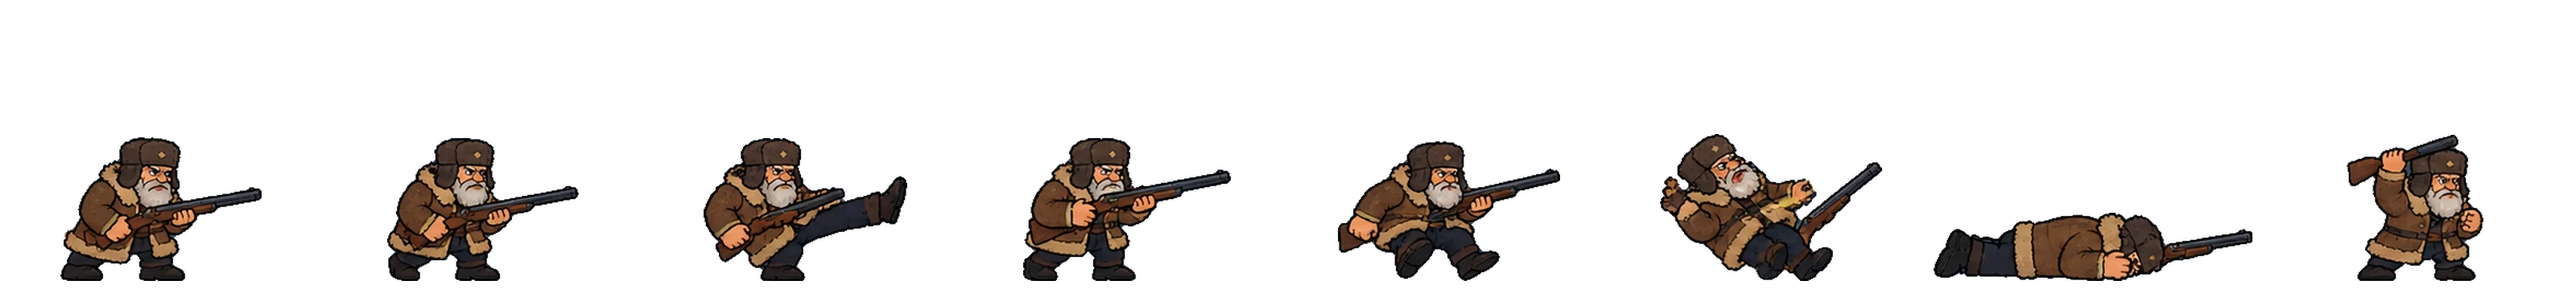
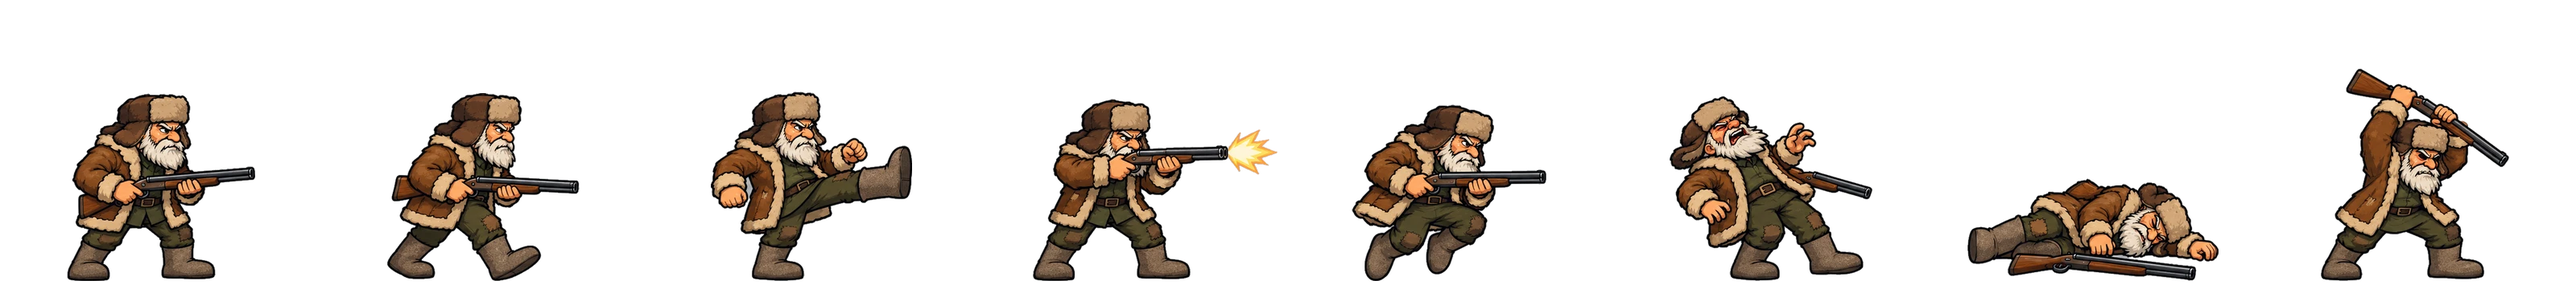
ulica: новые дружинник, сторож, дед с солью и Грузчик Вася в стиле героев
Claude-Session: https://claude.ai/code/session_017w6utUE8t4YTdujvejqZkJ

Changed region(s): [[0.0, 0.3056, 0.5, 0.9778], [0.5, 0.2444, 1.0, 0.9778]]

diff --git a/ulica/index.html b/ulica/index.html
@@ -70,7 +70,7 @@ const HEROES=[
  {id:'kaban',name:'Кабан',desc:'Бугай в спортивке. Кулак сбивает с ног',hp:140,spd:180,pow:1.3,rate:.85,heavyFist:1,price:600,pq:'h_kaban',hand:{i:[41,-93],p:[101,-110],o:[-15,-147]},top:115,sc:1.18,jacket:'#1f2a5a',pants:'#1f2a5a',stripe:'#f2f2f2',hair:'#4a3a2a',skin:'#e0a880'},
  {id:'marinka',name:'Маринка',desc:'Со двора. Вёрткая — уворачивается от ударов',hp:85,spd:260,pow:.95,rate:1.3,dodge:.22,price:450,pq:'h_marinka',hand:{i:[28,-93],p:[65,-105],o:[6,-154]},top:115,sc:1.05,noEnemy:1,jacket:'#6a2a9a',pants:'#6a2a9a',stripe:'#f2f2f2',hair:'#7a4a2a',skin:'#f0c4a0'}];
 const TINT=document.createElement('canvas');TINT.width=400;TINT.height=360;const PZMAP=[1,0,2,3],PZTOP0=[60,70,70,58],PZI=[],PZTOP=[];for(let h=0;h<HEROES.length;h++){const i=new Image();i.src=HEROES[h].pq?'img/'+HEROES[h].pq+'.webp':'img/pq'+PZMAP[h]+'.webp';PZI[h]=i;PZTOP[h]=HEROES[h].top!=null?HEROES[h].top:PZTOP0[PZMAP[h]];i.onload=()=>{if(PZI.every(x=>x.complete&&x.naturalWidth)&&typeof state!=='undefined'&&state==='menu')showMenu()}}
-const NSPR={},NTOP={druzh:130,ded:171,storozh:154,host:115,brig:116,dog:35,g1:20,g2:20,g3:20,baryga:115,naper:115,farc:115,reshala:115,smotr:115,myasnik:115},NSK={guard:'storozh',ded:'ded',druzh:'druzh'};for(const k in NTOP){const i=new Image();i.src='img/n_'+k+'.webp';NSPR[k]=i}
+const NSPR={},NTOP={druzh:116,ded:116,storozh:115,vasya:115,host:115,brig:116,dog:35,g1:20,g2:20,g3:20,baryga:115,naper:115,farc:115,reshala:115,smotr:115,myasnik:115},NSK={guard:'storozh',ded:'ded',druzh:'druzh'};for(const k in NTOP){const i=new Image();i.src='img/n_'+k+'.webp';NSPR[k]=i}
 const UAZI=new Image();UAZI.src='img/uaz.webp';
 const nsOK=k=>k&&NSPR[k]&&NSPR[k].complete&&NSPR[k].naturalWidth;
 const ENEMY_COL=['#4a6a2a','#5a2a6a','#6a4a1a','#2a5a6a'];
@@ -1201,7 +1201,7 @@ const RST=[
  {loc:'Овощные ряды',b:'НАПЁРСТОЧНИК',spr:'naper',w:'bottle',hp:150,sc:1.1,tip:'Шустрый и вёрткий. Бей ногой — отбрасывает.'},
  {loc:'Вещевой ряд',b:'ФАРЦОВЩИК',spr:'farc',w:'chain',hp:175,sc:1.15,tip:'Джинсы, кассеты и цепь. Длинные руки — держи дистанцию.'},
  {loc:'Мясной павильон',b:'МЯСНИК',spr:'myasnik',w:'knife',hp:235,sc:1.32,tip:'Огромный, с тесаком. Медленный — бей и отходи.'},
- {loc:'Задворки и склад',b:'ГРУЗЧИК ВАСЯ',spr:'brig',kind:'brig',w:'rebar',hp:280,sc:1.36,tip:'Увидишь «!!!» — отбегай. Издалека кидается кирпичами.'},
+ {loc:'Задворки и склад',b:'ГРУЗЧИК ВАСЯ',spr:'vasya',kind:'brig',w:'rebar',hp:280,sc:1.36,tip:'Увидишь «!!!» — отбегай. Издалека кидается кирпичами.'},
  {loc:'Контора рынка',b:'РЕШАЛА',spr:'reshala',w:'knux',hp:260,sc:1.25,guards:2,tip:'Решала с охраной. Сначала вырубай охрану.'},
  {loc:'Кабинет смотрящего',b:'СМОТРЯЩИЙ',spr:'smotr',kind:'host',w:'bpistol',hp:380,sc:1.36,tip:'Стреляет издалека, на половине здоровья зовёт охрану. Бей вплотную.'}];
 const RNAMES=['Торгаш','Грузчик','Шнырь','Кидала','Меняла','Носильщик','Сторож','Шестёрка'];
@@ -1612,7 +1612,7 @@ function loop(ts){const t=ts/1000,dt=Math.min(.05,t-(last||t));last=t;
  requestAnimationFrame(loop)}
 requestAnimationFrame(loop);
 LS.get('age',0)?showMenu():showAge();
-try{if('serviceWorker' in navigator&&location.protocol==='https:'){navigator.serviceWorker.register('/sw.js').catch(()=>{});if(window.caches)caches.open('tagshim-v2').then(c=>c.addAll(['/ulica/','/ulica/img/pq0.webp','/ulica/img/pq1.webp','/ulica/img/pq2.webp','/ulica/img/pq3.webp','/ulica/img/bg_dvor.webp','/ulica/img/bg_stroika.webp','/ulica/img/rayon_map0.webp','/ulica/img/rayon_map1.webp','/ulica/img/uaz.webp','/ulica/img/bg_disko.webp','/ulica/img/bg_ploshad.webp','/ulica/img/bg_zavod0.webp','/ulica/img/bg_zavod1.webp','/ulica/img/bg_street.webp','/ulica/img/bg_zavod2.webp','/ulica/img/bg_salon0.webp','/ulica/img/bg_salon1.webp','/ulica/img/bg_salon2.webp','/ulica/img/bg_rynok1.webp','/ulica/img/bg_rynok2.webp','/ulica/img/bg_rynok3.webp','/ulica/img/bg_rynok4.webp','/ulica/img/bg_rynok5.webp','/ulica/img/bg_rynok6.webp','/ulica/img/bg_rynok7.webp'].concat(['druzh','ded','storozh','host','brig','dog','g1','g2','g3','baryga','naper','farc','reshala','smotr','myasnik'].map(k=>'/ulica/img/n_'+k+'.webp')).concat(['/ulica/img/tg_icon.png','/ulica/img/kap.png','/ulica/img/h_star.webp','/ulica/img/h_shust.webp','/ulica/img/h_skor.webp','/ulica/img/h_zdor.webp','/ulica/img/h_boxer.webp','/ulica/img/h_karate.webp','/ulica/img/h_dembel.webp','/ulica/img/h_ryzhiy.webp','/ulica/img/h_kaban.webp','/ulica/img/h_marinka.webp','/ulica/img/w_stick.webp','/ulica/img/w_bat.webp','/ulica/img/w_spike.webp','/ulica/img/w_rebar.webp','/ulica/img/w_chain.webp','/ulica/img/w_knux.webp','/ulica/img/w_nunchaku.webp','/ulica/img/w_bottle.webp','/ulica/img/w_knife.webp','/ulica/img/w_stone.webp','/ulica/img/w_pistol.webp','/ulica/img/w_baton.webp','/ulica/img/w_salt.webp','/ulica/img/w_kefir.webp','/ulica/img/w_sling.webp','/ulica/img/w_belt.webp','/ulica/img/rd_bike.webp','/ulica/img/rd_skate.webp']))).catch(()=>{})}}catch(e){}
+try{if('serviceWorker' in navigator&&location.protocol==='https:'){navigator.serviceWorker.register('/sw.js').catch(()=>{});if(window.caches)caches.open('tagshim-v2').then(c=>c.addAll(['/ulica/','/ulica/img/pq0.webp','/ulica/img/pq1.webp','/ulica/img/pq2.webp','/ulica/img/pq3.webp','/ulica/img/bg_dvor.webp','/ulica/img/bg_stroika.webp','/ulica/img/rayon_map0.webp','/ulica/img/rayon_map1.webp','/ulica/img/uaz.webp','/ulica/img/bg_disko.webp','/ulica/img/bg_ploshad.webp','/ulica/img/bg_zavod0.webp','/ulica/img/bg_zavod1.webp','/ulica/img/bg_street.webp','/ulica/img/bg_zavod2.webp','/ulica/img/bg_salon0.webp','/ulica/img/bg_salon1.webp','/ulica/img/bg_salon2.webp','/ulica/img/bg_rynok1.webp','/ulica/img/bg_rynok2.webp','/ulica/img/bg_rynok3.webp','/ulica/img/bg_rynok4.webp','/ulica/img/bg_rynok5.webp','/ulica/img/bg_rynok6.webp','/ulica/img/bg_rynok7.webp'].concat(['druzh','ded','storozh','host','brig','dog','g1','g2','g3','baryga','naper','farc','reshala','smotr','myasnik','vasya'].map(k=>'/ulica/img/n_'+k+'.webp')).concat(['/ulica/img/tg_icon.png','/ulica/img/kap.png','/ulica/img/h_star.webp','/ulica/img/h_shust.webp','/ulica/img/h_skor.webp','/ulica/img/h_zdor.webp','/ulica/img/h_boxer.webp','/ulica/img/h_karate.webp','/ulica/img/h_dembel.webp','/ulica/img/h_ryzhiy.webp','/ulica/img/h_kaban.webp','/ulica/img/h_marinka.webp','/ulica/img/w_stick.webp','/ulica/img/w_bat.webp','/ulica/img/w_spike.webp','/ulica/img/w_rebar.webp','/ulica/img/w_chain.webp','/ulica/img/w_knux.webp','/ulica/img/w_nunchaku.webp','/ulica/img/w_bottle.webp','/ulica/img/w_knife.webp','/ulica/img/w_stone.webp','/ulica/img/w_pistol.webp','/ulica/img/w_baton.webp','/ulica/img/w_salt.webp','/ulica/img/w_kefir.webp','/ulica/img/w_sling.webp','/ulica/img/w_belt.webp','/ulica/img/rd_bike.webp','/ulica/img/rd_skate.webp']))).catch(()=>{})}}catch(e){}
 let HOLD=0;window.__r89={get G(){return G},start,loc:i=>{LOC=i;OBST=mode==='ffa'||mode==='team'?[OBST_F,OBST_A1,OBST_A2,[]][i]:OBST;paintBG()},hold:v=>{HOLD=v},attack:()=>attack(G.F[0]),sim:(n,dt)=>{for(let i=0;i<n&&G&&state==='play';i++)update(dt||1/60)},render:()=>render(performance.now()/1000),see:(g,e)=>seesIt(coneOf(g),e),world:()=>{if(!WORLD)paintWorld();const c=document.createElement('canvas');c.width=1500;c.height=1100;c.getContext('2d').drawImage(WORLD,0,0,1500,1100);return c.toDataURL('image/jpeg',.7)}};
 })();
 </script>
